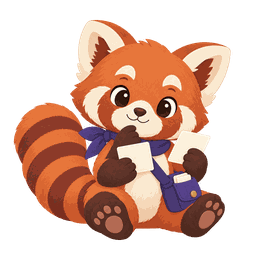
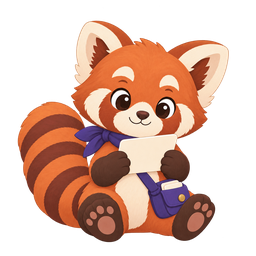
Refresh Aki art and record pose prompts
Remove the welcome shadow and correct the study pose. Add three
missing poses and record the prompt for each master illustration.

diff --git a/tools/export_android_art.py b/tools/export_android_art.py
@@ -44,8 +44,11 @@ ART = [
     ("aki_minimum", "static/aki/minimum.png", 336),
     ("aki_goal", "static/aki/goal.png", 336),
     ("aki_achievement", "static/aki/achievement.png", 336),
+    ("aki_level_up", "static/aki/level_up.png", 336),
     ("aki_deck_conquered", "static/aki/deck_conquered.png", 336),
+    ("aki_leech", "static/aki/leech.png", 336),
     ("aki_sleeping", "static/aki/sleeping.png", 336),
+    ("aki_at_risk", "static/aki/at_risk.png", 336),
     ("duo_friends", "static/duo/friends.png", 336),
 ]
 

diff --git a/docs/branding/aki.md b/docs/branding/aki.md
@@ -56,12 +56,16 @@ yet: they are not embedded in the server binary and are not public paths.
 | `minimum.png` | `aki_minimum` | Daily minimum reached; today counts |
 | `goal.png` | `aki_goal` | Daily goal reached |
 | `achievement.png` | `aki_achievement` | An achievement unlocked |
+| `level_up.png` | `aki_level_up` | A level reached |
 | `deck_conquered.png` | `aki_deck_conquered` | A deck conquered |
+| `leech.png` | `aki_leech` | A leech tamed |
+| `at_risk.png` | `aki_at_risk` | Still time to secure the streak |
 | `sleeping.png` | `aki_sleeping` | Rest day, notifications off |
 | `../duo/friends.png` | `duo_friends` | Aki and Ankilope together: sharing, challenges, nudges |
 
-the prompts for the moment art were not recorded, so `aki-prompts.json` has no
-entries for them yet.
+`aki-prompts.json` records the prompts for new and replaced art. Prompts for
+earlier poses without a generation record were reconstructed from the shipped
+PNG masters. Each client-sized copy uses the prompt for its master pose.
 
 Aki encourages small steps and celebrates confirmed progress. avoid guilt,
 threats, fake rewards or implying a streak is protected merely because a user
